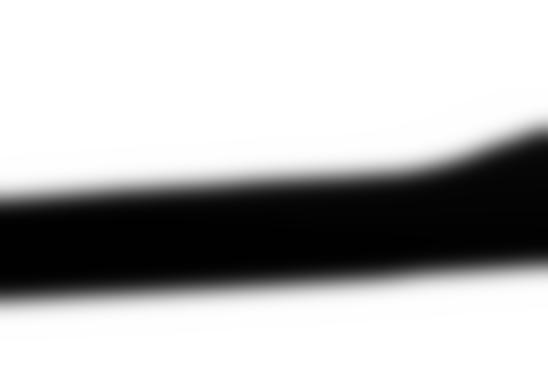
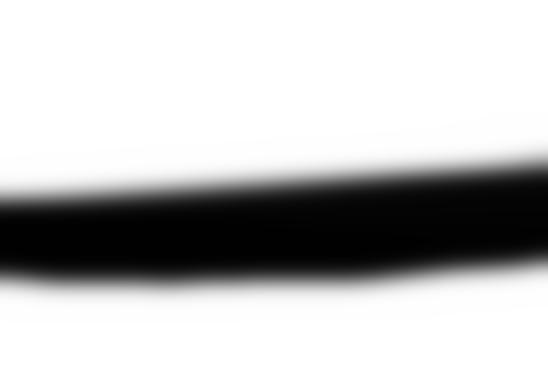
added metered parametrization

diff --git a/tiltShifter.py b/tiltShifter.py
@@ -1,10 +1,11 @@
-import sys
 import struct
+import sys
+
+import matplotlib.pyplot as plt
+import numpy as nump
 from PIL import Image
 from scipy import ndimage
-import numpy as nump
-import PIL.ImageOps
-import matplotlib.pyplot as plt
+
 
 def main():
 	colorImage = Image.open("photo_crop.jpg")
@@ -13,7 +14,9 @@ def main():
 	blurredBase = gauss(colorImage)
 	makeTiltShift(colorImage, blurredBase, mask, 90, 50, 1, 10, 255)
 
-
+# makeTiltShift parameters:
+# blur: blur radius in pixels
+# direction: angle of the tilt (hard mask, ignores distance data)
 def makeTiltShift(colorImage, blurredBase,  mask, angle=90, offsetInit=50, offsetStart=18, offsetEnd=10, focus=10):
 	#mask = PIL.ImageOps.invert(mask)
 	pixelMap = mask.load()
@@ -22,10 +25,7 @@ def makeTiltShift(colorImage, blurredBase,  mask, angle=90, offsetInit=50, offse
 
 	for i in range(newImg.size[0]): # width
 		for j in range(newImg.size[1]): # height
-			if pixelMap[i,j] < offsetStart or pixelMap[i,j] > offsetEnd:
-				pixelsNew[i,j] = focus
-			else:
-				pixelsNew[i,j] = pixelMap[i,j] # leave the original ones
+			pixelsNew[i,j] = pixelMap[i,j] # copy by pixels
 
 	# apply blur to parametrized mask
 	blurMask = gaussianFilter(newImg, 10)
@@ -69,6 +69,8 @@ def produceGrayscaleFromPfm(f):
 	maxVal = max(resultArr)
 	minVal = min(resultArr)
 
+	resultArr = simulateLens(resultArr, width, height, minVal, maxVal, int(sys.argv[1]), int(sys.argv[2]), int(sys.argv[3]))
+
 	imageArr = []
 	for value in resultArr:
 		imageArr.append(translate(value, minVal, maxVal, 0, 255))
@@ -78,6 +80,38 @@ def produceGrayscaleFromPfm(f):
 	im.putdata(imageArr)
 	im = im.transpose(Image.FLIP_TOP_BOTTOM)
 	return(im)
+
+# simulateLens parameters:
+# arr: input array
+# width, height: w and h of the image data
+# minVal: minimal value in meters in image
+# maxVal: maximal value in meters in image
+# position: defines the point of focus (0-100) 66 would be 2/3 way in
+# focus: amount of area that ins in focus (0-100) 10 would mean 1/10 of image is sharp
+# fallout: area between focus and complete blur (0-100) lower value = tighter fade
+def simulateLens(arr, width, height, minVal, maxVal, position, focus, fallout):
+	print("minimal meters:" + str(minVal))
+	print("maximal meters:" + str(maxVal))
+
+	wholeRange = abs(maxVal)-abs(minVal)
+
+	focused = wholeRange/100*focus
+	positioned = wholeRange/100*position
+	fellout = wholeRange/100*fallout
+
+	for x in range(0, width):
+		for y in range(0, height):
+			data = arr[y*width+x]
+			if (data > positioned+focused/2+fellout or data < positioned-focused/2-fellout):
+				arr[y*width+x] = maxVal
+			# else no change of the data
+
+			if (data > positioned+focused/2 and data < positioned+focused/2+fellout): # data is in upper fallout zone
+				arr[y*width+x] = translate(data, positioned+focused/2, positioned+focused/2+fellout, positioned+focused/2, maxVal)
+			#elif (data < positioned-focused/2 and data > positioned-focused/2-fellout): # data is in lower fallout zone
+			#	arr[y*width+x] = translate(data, positioned-focused/2-fellout, positioned-focused/2, positioned-focused/2-fellout, maxVal) # TODO maybe swap
+
+	return(arr)
 
 def getFloat(data):
 	a = struct.unpack('f', data)
